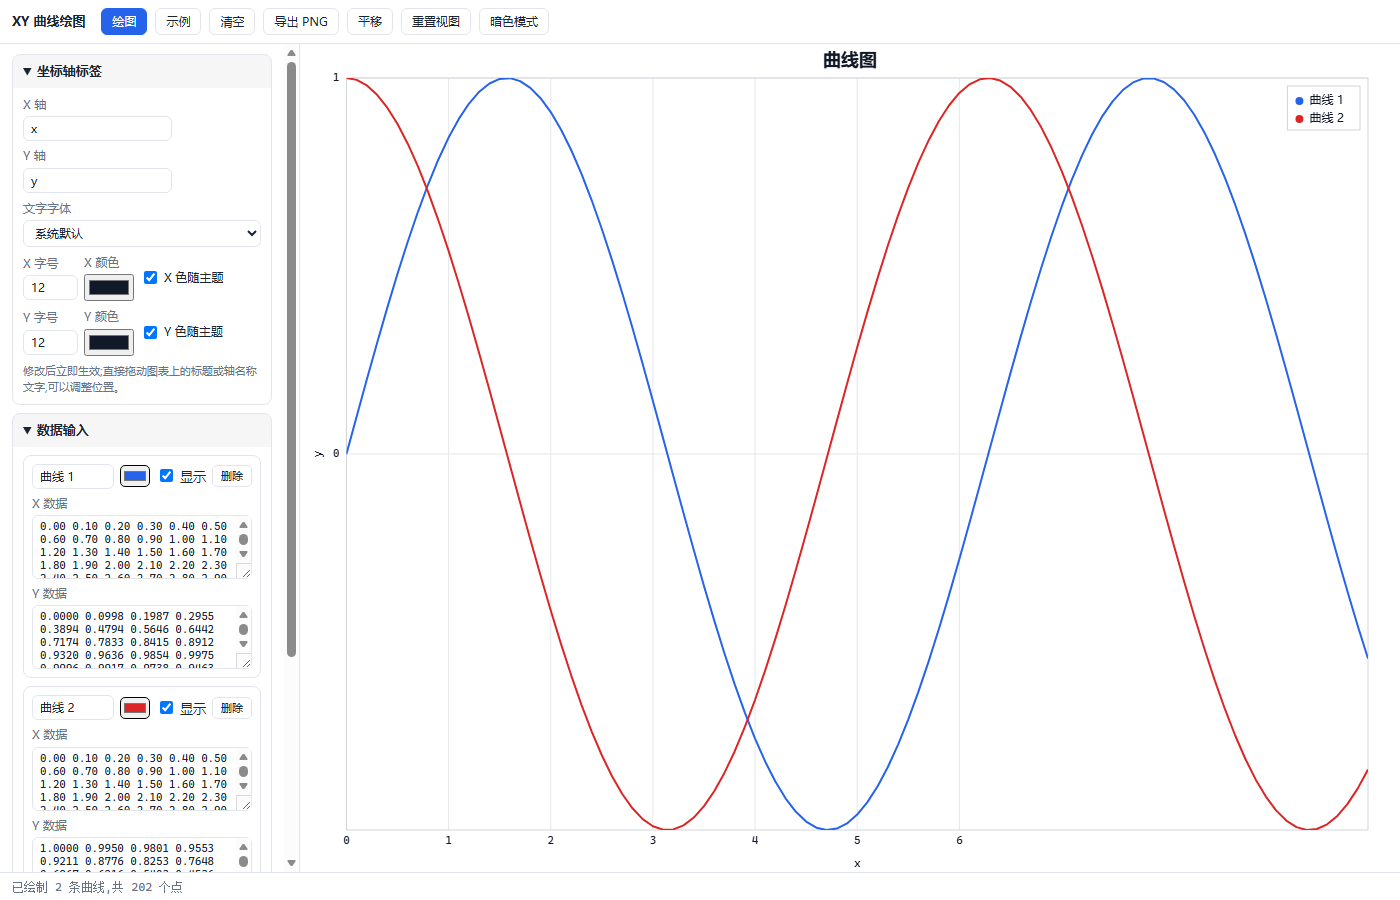
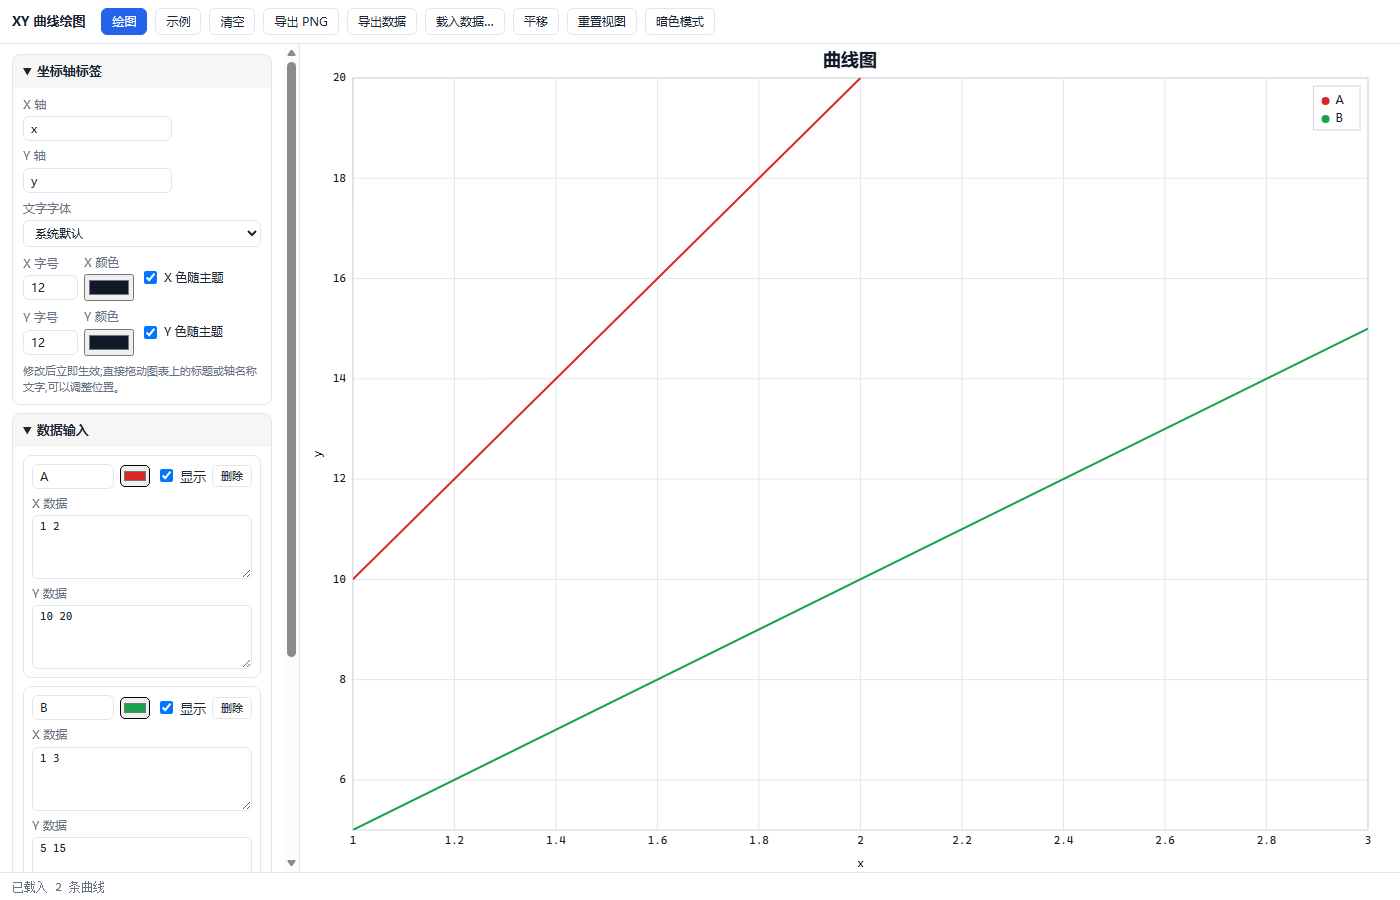
Update export import

diff --git a/xy-plotter.html b/xy-plotter.html
@@ -102,6 +102,9 @@ input:focus, select:focus, textarea:focus{
     <button id="exampleBtn" class="btn" type="button">示例</button>
     <button id="clearBtn" class="btn" type="button">清空</button>
     <button id="pngBtn" class="btn" type="button">导出 PNG</button>
+    <button id="exportDataBtn" class="btn" type="button">导出数据</button>
+    <button id="loadDataBtn" class="btn" type="button">载入数据…</button>
+    <input id="dataFileInput" type="file" accept=".csv,.txt" hidden>
     <button id="panBtn" class="btn" type="button">平移</button>
     <button id="resetBtn" class="btn" type="button">重置视图</button>
     <button id="darkBtn" class="btn" type="button">暗色模式</button>
@@ -200,6 +203,7 @@ input:focus, select:focus, textarea:focus{
             · 鼠标悬停数据点显示精确坐标<br>
             · 拖动标题 / X 轴名称 / Y 轴名称可调整位置<br>
             · 刻度方式:自动漂亮数 / 等分 / 固定步长 / 数据点 / 自定义<br>
+            · 标题、标签样式、曲线数据都会自动保存在本浏览器,刷新不丢失<br>
             · Log 坐标会自动跳过 0 和负数
           </div>
         </div>
@@ -279,6 +283,7 @@ function plot() {
   $('info').textContent = curves.map((c) => c.name + ':' + c.xs.length + '点').join('   ');
   resetView();
   status('已绘制 ' + valid.length + ' 条曲线,共 ' + total + ' 个点');
+  scheduleSave();
 }
 
 function clearAll() {
@@ -289,6 +294,7 @@ function clearAll() {
   for (const c of curves) { c.xs = []; c.ys = []; c.visible = true; }
   $('info').textContent = '尚未绘图';
   resetView();
+  scheduleSave();
 }
 
 // ---------- 配置与范围 ----------
@@ -859,6 +865,7 @@ canvas.addEventListener('mousedown', (e) => {
     if (p.x >= it.x && p.x <= it.x + it.w && p.y >= it.y && p.y <= it.y + it.h) {
       curves[it.ci].visible = !curves[it.ci].visible;
       redraw();
+      scheduleSave();
       return;
     }
   }
@@ -887,7 +894,7 @@ window.addEventListener('mousemove', (e) => {
 window.addEventListener('mouseup', () => {
   if (!drag) return;
   if (drag.mode === 'label') {
-    saveLabelPos();
+    saveState();
   } else if (drag.mode === 'zoom' && zoomRect) {
     const w = Math.abs(zoomRect.x2 - zoomRect.x1), h = Math.abs(zoomRect.y2 - zoomRect.y1);
     if (w > 5 && h > 5) {
@@ -969,6 +976,12 @@ $('pngBtn').addEventListener('click', () => {
     status('PNG 已导出');
   }, 'image/png');
 });
+$('exportDataBtn').addEventListener('click', exportData);
+$('loadDataBtn').addEventListener('click', () => $('dataFileInput').click());
+$('dataFileInput').addEventListener('change', () => {
+  if ($('dataFileInput').files[0]) loadDataFromFile($('dataFileInput').files[0]);
+  $('dataFileInput').value = '';
+});
 $('panBtn').addEventListener('click', () => {
   panMode = !panMode;
   $('panBtn').setAttribute('aria-pressed', String(panMode));
@@ -991,6 +1004,8 @@ for (const id of ['titleInput', 'titleSize', 'titleColor', 'titleTheme',
   const el = $(id);
   el.addEventListener('input', redraw);
   el.addEventListener('change', redraw);
+  el.addEventListener('input', scheduleSave);
+  el.addEventListener('change', scheduleSave);
 }
 
 function syncTickModeUI() {
@@ -1028,20 +1043,22 @@ function addCurve(name) {
   const nameInput = sec.querySelector('.curve-name');
   const colorInput = sec.querySelector('.curve-color');
   const visInput = sec.querySelector('.curve-vis');
-  nameInput.addEventListener('input', () => { curve.name = nameInput.value.trim() || displayName; redraw(); });
-  colorInput.addEventListener('input', () => { curve.color = colorInput.value; redraw(); });
-  visInput.addEventListener('change', () => { curve.visible = visInput.checked; redraw(); });
+  nameInput.addEventListener('input', () => { curve.name = nameInput.value.trim() || displayName; redraw(); scheduleSave(); });
+  colorInput.addEventListener('input', () => { curve.color = colorInput.value; redraw(); scheduleSave(); });
+  visInput.addEventListener('change', () => { curve.visible = visInput.checked; redraw(); scheduleSave(); });
   sec.querySelector('.btn-sm').addEventListener('click', () => {
     const idx = curves.indexOf(curve);
     if (idx >= 0) curves.splice(idx, 1);
     sec.remove();
     resetView();
+    scheduleSave();
   });
   for (const ta of [sec.querySelector('.xData'), sec.querySelector('.yData')]) {
     ta.addEventListener('keydown', (e) => {
       if ((e.ctrlKey || e.metaKey) && e.key === 'Enter') { e.preventDefault(); plot(); }
     });
     ta.addEventListener('paste', () => setTimeout(plot, 60));
+    ta.addEventListener('input', scheduleSave);
   }
   return curve;
 }
@@ -1052,18 +1069,173 @@ $('addCurveBtn').addEventListener('click', () => addCurve());
 function status(msg) { $('status').textContent = msg; }
 function warn(msg) { $('status').textContent = '⚠ ' + msg; }
 
-function saveLabelPos() {
-  try { localStorage.setItem('xy-plot-labelpos', JSON.stringify(labelPos)); } catch (e) {}
+function exportData() {
+  const valid = curves.filter((c) => c.xs.length);
+  if (!valid.length) { warn('没有可导出的数据'); return; }
+  const rows = ['曲线,x,y'];
+  for (const c of valid) {
+    const name = '"' + c.name.replace(/"/g, '""') + '"';
+    for (let i = 0; i < c.xs.length; i++) rows.push(name + ',' + c.xs[i] + ',' + c.ys[i]);
+  }
+  const blob = new Blob(['\ufeff' + rows.join('\n')], { type: 'text/csv;charset=utf-8' });
+  const a = document.createElement('a');
+  a.href = URL.createObjectURL(blob);
+  a.download = '曲线数据.csv';
+  a.click();
+  setTimeout(() => URL.revokeObjectURL(a.href), 2000);
+  status('已导出 ' + valid.length + ' 条曲线,共 ' + (rows.length - 1) + ' 行数据');
 }
-function loadLabelPos() {
+
+function parseCSV(text) {
+  const rows = [];
+  let row = [], field = '', inQ = false;
+  const s = String(text).replace(/^\ufeff/, '');
+  for (let i = 0; i < s.length; i++) {
+    const ch = s[i];
+    if (inQ) {
+      if (ch === '"') {
+        if (s[i + 1] === '"') { field += '"'; i++; }
+        else inQ = false;
+      } else field += ch;
+    } else if (ch === '"') {
+      inQ = true;
+    } else if (ch === ',') {
+      row.push(field); field = '';
+    } else if (ch === '\n' || ch === '\r') {
+      if (ch === '\r' && s[i + 1] === '\n') i++;
+      row.push(field); field = '';
+      if (row.some((f) => f.trim() !== '')) rows.push(row);
+      row = [];
+    } else field += ch;
+  }
+  row.push(field);
+  if (row.some((f) => f.trim() !== '')) rows.push(row);
+  return rows;
+}
+
+function loadDataFromFile(file) {
+  file.text().then((text) => {
+    const rows = parseCSV(text);
+    if (!rows.length || String(rows[0][0]).trim().toLowerCase() !== '曲线') {
+      warn('CSV 格式不正确:第一行应为 曲线,x,y');
+      return;
+    }
+    const groups = {}, order = [];
+    for (let i = 1; i < rows.length; i++) {
+      const r = rows[i];
+      if (!r || r.length < 3) continue;
+      const x = Number(r[1]), y = Number(r[2]);
+      if (!isFinite(x) || !isFinite(y)) continue;
+      const name = String(r[0]).trim() || '曲线';
+      if (!groups[name]) { groups[name] = { xs: [], ys: [] }; order.push(name); }
+      groups[name].xs.push(x);
+      groups[name].ys.push(y);
+    }
+    if (!order.length) { warn('文件中没有有效数据行'); return; }
+    while (curves.length) {
+      const sec = curvesBox.querySelector('.curve-sec[data-id="' + curves[curves.length - 1].id + '"]');
+      if (sec) sec.remove();
+      curves.pop();
+    }
+    for (const name of order) {
+      const c = addCurve(name);
+      const sec = curvesBox.querySelector('.curve-sec[data-id="' + c.id + '"]');
+      sec.querySelector('.xData').value = groups[name].xs.join(' ');
+      sec.querySelector('.yData').value = groups[name].ys.join(' ');
+    }
+    plot();
+    saveState();
+    status('已载入 ' + order.length + ' 条曲线');
+  }).catch((e) => warn('读取文件失败:' + e.message));
+}
+
+let saveTimer = null;
+function scheduleSave() {
+  clearTimeout(saveTimer);
+  saveTimer = setTimeout(saveState, 300);
+}
+
+function saveState() {
   try {
-    const s = localStorage.getItem('xy-plot-labelpos');
-    if (!s) return;
-    const o = JSON.parse(s);
-    if (o.title) labelPos.title = o.title;
-    if (o.xAxis) labelPos.xAxis = o.xAxis;
-    if (o.yAxis) labelPos.yAxis = o.yAxis;
-  } catch (e) {}
+    const secs = curvesBox.querySelectorAll('.curve-sec');
+    const state = {
+      settings: {
+        title: $('titleInput').value, titleSize: $('titleSize').value, titleColor: $('titleColor').value, titleTheme: $('titleTheme').checked,
+        xLabel: $('xLabelInput').value, yLabel: $('yLabelInput').value, axisFont: $('axisFontSel').value,
+        xLabelSize: $('xLabelSize').value, xLabelColor: $('xLabelColor').value, xLabelTheme: $('xLabelTheme').checked,
+        yLabelSize: $('yLabelSize').value, yLabelColor: $('yLabelColor').value, yLabelTheme: $('yLabelTheme').checked,
+        xScale: $('xScaleSel').value, yScale: $('yScaleSel').value,
+        ticks: $('tickInput').value, tickMode: $('tickModeSel').value, tickStep: $('tickStep').value, customTicks: $('customTicks').value,
+        grid: $('gridChk').checked, smooth: $('smoothSel').value, points: $('pointsChk').checked
+      },
+      view: { autoX: view.autoX, autoY: view.autoY, xMin: view.xMin, xMax: view.xMax, yMin: view.yMin, yMax: view.yMax },
+      labelPos: labelPos,
+      curves: curves.map((c, i) => {
+        const sec = secs[i];
+        return {
+          name: c.name, color: c.color, visible: c.visible,
+          xText: sec ? sec.querySelector('.xData').value : '',
+          yText: sec ? sec.querySelector('.yData').value : ''
+        };
+      })
+    };
+    localStorage.setItem('xy-plotter-state', JSON.stringify(state));
+  } catch (e) {
+    warn('自动保存失败:数据可能过大');
+  }
+}
+
+function loadState() {
+  let state = null;
+  try { state = JSON.parse(localStorage.getItem('xy-plotter-state') || 'null'); } catch (e) {}
+  if (state && state.settings) {
+    const s = state.settings;
+    const set = (id, v) => { const el = $(id); if (el && v !== undefined && v !== null && v !== '') el.value = v; };
+    const setChk = (id, v) => { const el = $(id); if (el) el.checked = !!v; };
+    set('titleInput', s.title); set('titleSize', s.titleSize); set('titleColor', s.titleColor); setChk('titleTheme', s.titleTheme);
+    set('xLabelInput', s.xLabel); set('yLabelInput', s.yLabel); set('axisFontSel', s.axisFont);
+    set('xLabelSize', s.xLabelSize); set('xLabelColor', s.xLabelColor); setChk('xLabelTheme', s.xLabelTheme);
+    set('yLabelSize', s.yLabelSize); set('yLabelColor', s.yLabelColor); setChk('yLabelTheme', s.yLabelTheme);
+    set('xScaleSel', s.xScale); set('yScaleSel', s.yScale);
+    set('tickInput', s.ticks); set('tickModeSel', s.tickMode); set('tickStep', s.tickStep); set('customTicks', s.customTicks);
+    setChk('gridChk', s.grid); set('smoothSel', s.smooth); setChk('pointsChk', s.points);
+  }
+  if (state && state.labelPos) {
+    if (state.labelPos.title) labelPos.title = state.labelPos.title;
+    if (state.labelPos.xAxis) labelPos.xAxis = state.labelPos.xAxis;
+    if (state.labelPos.yAxis) labelPos.yAxis = state.labelPos.yAxis;
+  }
+  if (state && state.view) {
+    const v = state.view;
+    view.autoX = !!v.autoX; view.autoY = !!v.autoY;
+    if (isFinite(v.xMin)) view.xMin = v.xMin;
+    if (isFinite(v.xMax)) view.xMax = v.xMax;
+    if (isFinite(v.yMin)) view.yMin = v.yMin;
+    if (isFinite(v.yMax)) view.yMax = v.yMax;
+  }
+  while (curves.length) {
+    const sec = curvesBox.querySelector('.curve-sec[data-id="' + curves[curves.length - 1].id + '"]');
+    if (sec) sec.remove();
+    curves.pop();
+  }
+  const savedCurves = (state && Array.isArray(state.curves) && state.curves.length) ? state.curves : null;
+  let hasData = false;
+  if (savedCurves) {
+    for (const sc of savedCurves) {
+      const c = addCurve(sc.name);
+      const sec = curvesBox.querySelector('.curve-sec[data-id="' + c.id + '"]');
+      if (sc.color) { c.color = sc.color; sec.querySelector('.curve-color').value = sc.color; }
+      c.visible = sc.visible !== false;
+      sec.querySelector('.curve-vis').checked = c.visible;
+      sec.querySelector('.xData').value = sc.xText || '';
+      sec.querySelector('.yData').value = sc.yText || '';
+      if (sc.yText && sc.yText.trim()) hasData = true;
+    }
+  } else {
+    addCurve();
+  }
+  syncTickModeUI();
+  if (hasData) plot(); else redraw();
 }
 
 function resize() {
@@ -1079,8 +1251,7 @@ function resize() {
 
 window.addEventListener('resize', resize);
 resize();
-loadLabelPos();
-addCurve();
+loadState();
 document.body.dataset.ready = '1';
 </script>
 </body>

diff --git a/README.md b/README.md
@@ -30,6 +30,8 @@
 - 坐标轴:线性 / Log10 缩放(自动过滤 0 与负数并提示)、网格开关、折线 / 平滑曲线、数据点标记
 - 刻度方式可选:自动漂亮数(1/2/5×10ⁿ)、等分 N 段、固定步长、数据点位置、自定义刻度列表
 - 交互:图例点击显隐曲线、鼠标悬停显示曲线名与精确坐标、框选放大、按住空格或「平移」拖动、双击重置视图
+- 数据导出 / 载入:一键导出 CSV(曲线名,x,y,Excel 可打开),也可载入相同格式的 CSV / TXT 恢复多条曲线
+- 自动保存:标题、轴标签的文字/字体/字号/颜色与位置、坐标轴与刻度设置、曲线数据都会保存在当前浏览器,刷新后原样恢复
 - 导出 PNG;亮色 / 暗色主题切换;完全离线,无任何外部依赖
 
 ![预览截图](xy-plotter-preview.png)
